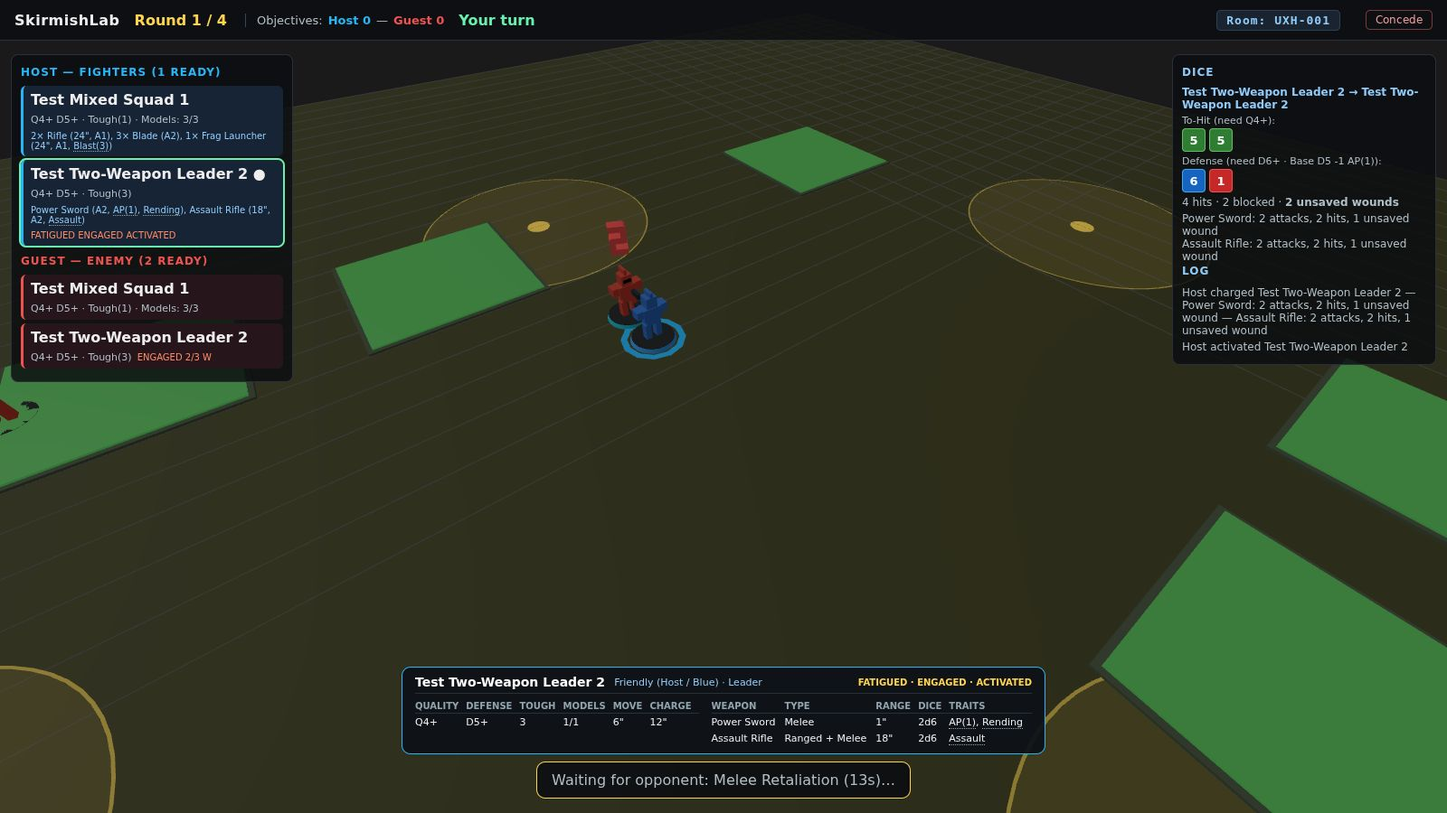
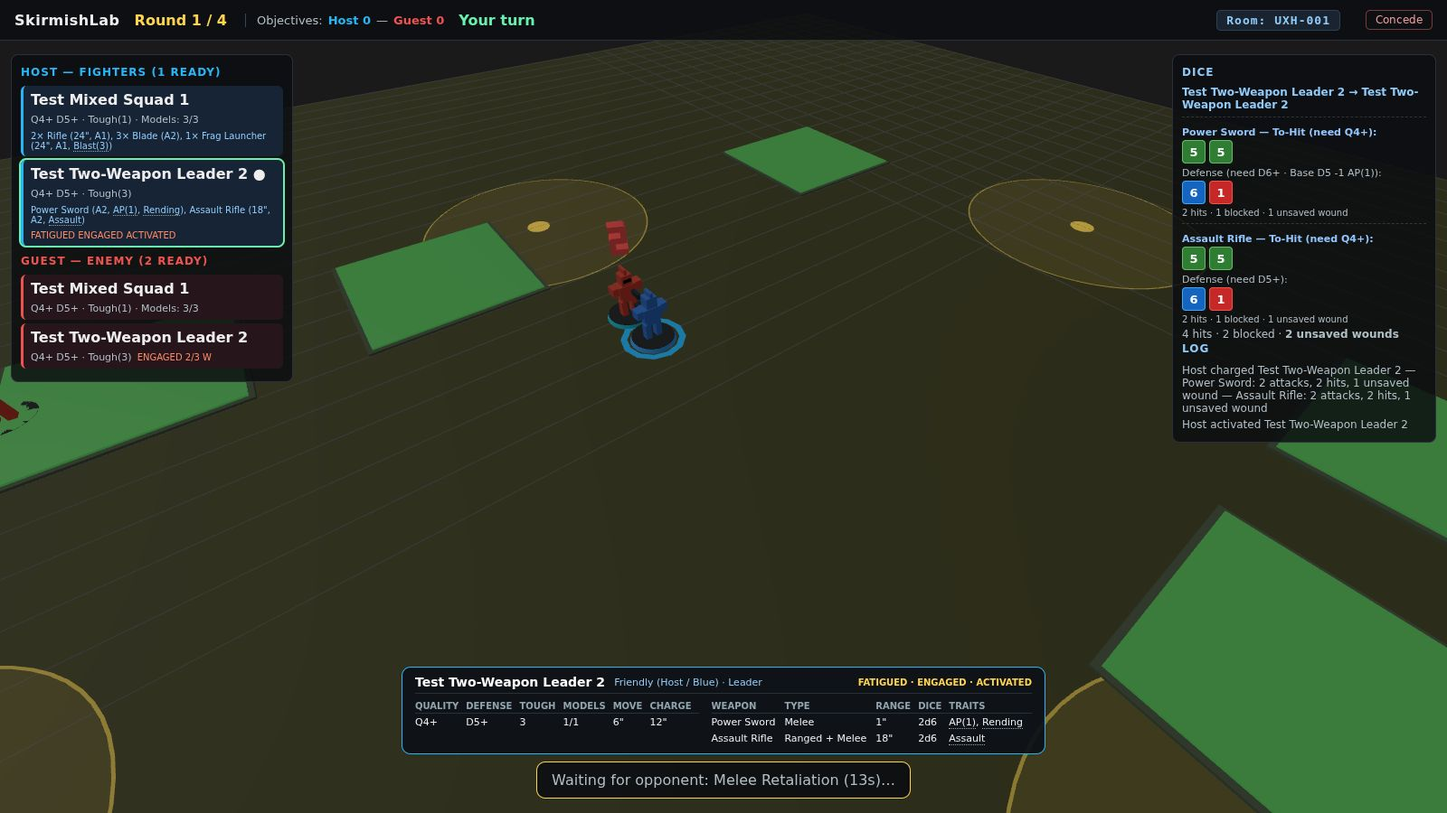
fix: per-weapon To-Hit and Defense dice blocks for multi-weapon melee; retake l13 shots

Changed region(s): [[0.8125, 0.1244, 1.0, 0.56]]

diff --git a/client/src/ui/GameHUD.ts b/client/src/ui/GameHUD.ts
@@ -44,6 +44,9 @@ import {
   woundsToDestroy,
   getEffectiveSpeed,
   findMeleeWeapon,
+  DiceResult,
+  WeaponAttackOutcome,
+  meleeWeaponSlots,
   strikingModelCount,
   isMeleeWeapon,
   isPathDifficult,
@@ -4504,21 +4507,29 @@ export class GameHUD {
           ? `Defender Retaliation: ${attacker?.name ?? 'Defender'} → ${target?.name ?? 'Charger'}`
           : `${attacker?.name ?? 'Attacker'} → ${target?.name ?? 'target'}`;
 
-      return `
-        <div class="sl-hud-dice">
-          <div class="sl-hud-dice-title">${titleText}</div>
-          <div class="sl-hud-dice-label">To-Hit (need Q${effectiveQ}+${toHitMods}):</div>
+      // Several melee weapons struck: each has its own dice batch (`w<slot>-` purposes), target numbers and AP
+      const meleeBlocks = outcome.meleeStrikes && outcome.meleeStrikes.length > 1 && attacker
+        ? this.meleeWeaponBlocksHtml(entry.dice.results, outcome.meleeStrikes, attacker)
+        : '';
+      const rollsHtml = meleeBlocks
+        ? meleeBlocks
+        : `<div class="sl-hud-dice-label">To-Hit (need Q${effectiveQ}+${toHitMods}):</div>
           <div class="sl-hud-dice-row">${hitDiceHtml}</div>
           ${this.blastSplitHtml(outcome.blastSplits)}
           <div class="sl-hud-dice-label">${outcome.blastSplash?.length ? `${target?.name ?? 'Target'} ` : ''}Defense (need D${targetD}+${defMods}):</div>
-          <div class="sl-hud-dice-row">${defDiceHtml}</div>
+          <div class="sl-hud-dice-row">${defDiceHtml}</div>`;
+
+      return `
+        <div class="sl-hud-dice">
+          <div class="sl-hud-dice-title">${titleText}</div>
+          ${rollsHtml}
           <div class="sl-hud-dice-summary">
             ${outcome.hitCount} hit${outcome.hitCount === 1 ? '' : 's'} ·
             ${outcome.blockedCount} blocked ·
             ${summaryWounds}
           </div>
           ${this.blastSplashHtml(outcome.blastSplash)}
-          ${this.specialStrikesHtml(outcome)}
+          ${this.specialStrikesHtml(outcome, !!meleeBlocks)}
           ${retaliationHtml}
           ${pushBackHtml}
         </div>`;
@@ -4527,13 +4538,63 @@ export class GameHUD {
   }
 
   /** Impact hits, the Counter strike and Shred's extra wounds of an attack, as short notes under the dice. */
-  private specialStrikesHtml(outcome: NonNullable<GameState['actionLog'][number]['dice']>['outcome']): string {
-    const lines = this.specialStrikeLines(outcome);
+  /**
+   * To-Hit and Defense dice of a melee with several weapons, one block per weapon that struck. A weapon's dice use
+   * its fixed slot in the unit's melee weapon list: slot 0 is plain `to-hit` / `defense`, later slots `w1-`, `w2-`.
+   */
+  private meleeWeaponBlocksHtml(
+    results: DiceResult[],
+    strikes: WeaponAttackOutcome[],
+    striker: Unit
+  ): string {
+    const slots = meleeWeaponSlots(striker);
+    return strikes
+      .map((m) => {
+        const slot = Math.max(0, slots.findIndex((w) => w.id === m.weaponId));
+        const prefix = slot === 0 ? '' : `w${slot}-`;
+        const toHit = results.find((r) => r.purpose === `${prefix}to-hit`);
+        const defense = results.find((r) => r.purpose === `${prefix}defense`);
+        const q = m.effectiveQuality ?? striker.quality;
+        const d = m.effectiveDefense ?? 5;
+        const hitDice = (toHit?.rolls ?? [])
+          .map((r) => `<span class="sl-die ${r > 1 && (r >= 6 || r >= q) ? 'hit-pass' : 'hit-miss'}">${r}</span>`)
+          .join('');
+        const defRolls = (defense?.rolls ?? []).slice(0, m.hitCount);
+        const defDice = defRolls.length
+          ? defRolls
+              .map((r, i) => {
+                const blocked = m.blockedRolls ? (m.blockedRolls[i] ?? false) : r > 1 && r >= d;
+                return `<span class="sl-die ${blocked ? 'def-pass' : 'def-fail'}">${r}</span>`;
+              })
+              .join('')
+          : '<span class="sl-hud-dice-empty">no hits to defend</span>';
+        const hitMods = m.hitModifiers?.length ? ` · Base Q${m.baseQuality ?? striker.quality} ${m.hitModifiers.join(' ')}` : '';
+        const defMods = m.defenseModifiers?.length ? ` · Base D${m.baseDefense ?? 5} ${m.defenseModifiers.join(' ')}` : '';
+        return `
+          <div class="sl-hud-melee-weapon-block" style="margin-top: 6px; padding-top: 6px; border-top: 1px dashed rgba(255,255,255,0.15);">
+            <div class="sl-hud-dice-label" style="color: #93c5fd; font-weight: bold;">${m.weaponName ?? m.weaponId} — To-Hit (need Q${q}+${hitMods}):</div>
+            <div class="sl-hud-dice-row">${hitDice}</div>
+            <div class="sl-hud-dice-label">Defense (need D${d}+${defMods}):</div>
+            <div class="sl-hud-dice-row">${defDice}</div>
+            <div class="sl-hud-dice-summary" style="font-size: 10px;">${m.hitCount} hit${m.hitCount === 1 ? '' : 's'} · ${m.blockedCount} blocked · ${m.wounds} unsaved wound${m.wounds === 1 ? '' : 's'}</div>
+          </div>`;
+      })
+      .join('');
+  }
+
+  private specialStrikesHtml(
+    outcome: NonNullable<GameState['actionLog'][number]['dice']>['outcome'],
+    skipMeleeLines = false
+  ): string {
+    const lines = this.specialStrikeLines(outcome, skipMeleeLines);
     if (lines.length === 0) return '';
     return `<div class="sl-hud-dice-summary">${lines.map((l) => `<div>${l}</div>`).join('')}</div>`;
   }
 
-  private specialStrikeLines(outcome: NonNullable<GameState['actionLog'][number]['dice']>['outcome']): string[] {
+  private specialStrikeLines(
+    outcome: NonNullable<GameState['actionLog'][number]['dice']>['outcome'],
+    skipMeleeLines = false
+  ): string[] {
     const lines: string[] = [];
     const wounds = (n: number) => `${n} unsaved wound${n === 1 ? '' : 's'}`;
     if (outcome.impact) {
@@ -4543,7 +4604,7 @@ export class GameHUD {
     for (const c of outcome.counterStrikes ?? []) {
       lines.push(`Counter strike first${c.weaponName ? ` (${c.weaponName})` : ''}: ${this.unitName(c.attackerId)} → ${this.unitName(c.targetId)}: ${c.hitCount} hit${c.hitCount === 1 ? '' : 's'}, ${c.blockedCount} blocked, ${wounds(c.wounds)}${c.targetDestroyed ? ' · charger down' : ''}`);
     }
-    const strikes = outcome.meleeStrikes ?? [];
+    const strikes = skipMeleeLines ? [] : outcome.meleeStrikes ?? [];
     for (const m of strikes) {
       lines.push(`${m.weaponName ?? m.weaponId}: ${m.attackCount} attack${m.attackCount === 1 ? '' : 's'}, ${m.hitCount} hit${m.hitCount === 1 ? '' : 's'}, ${wounds(m.wounds)}`);
     }

diff --git a/client/tests/ui/GameHUD.loadouts.test.ts b/client/tests/ui/GameHUD.loadouts.test.ts
@@ -210,7 +210,7 @@ describe('GameHUD per-model loadouts (14C-3 PR 1C)', () => {
   });
 
   describe('dice panel and log', () => {
-    it('shows one line per melee weapon with attacks, hits and wounds, and keeps the totals', () => {
+    it('shows a dice block per melee weapon (log: one line each with attacks, hits, wounds) and keeps the totals', () => {
       const mine = armyUnits(HOST, P(0, 0), P(0, 5));
       const foe = armyUnits(GUEST, P(0, 6.5), P(30, 20));
       mine.leader.status = ['engaged'];
@@ -230,7 +230,7 @@ describe('GameHUD per-model loadouts (14C-3 PR 1C)', () => {
       const { container } = setup(HOST, out.state!);
       const panel = container.querySelector('.sl-hud-dice')!.textContent!;
       for (const s of strikes) {
-        expect(panel).toContain(`${s.weaponName}: ${s.attackCount} attacks, ${s.hitCount} hit`);
+        expect(panel).toContain(`${s.weaponName} — To-Hit`);
       }
       const total = out.logEntry!.dice!.outcome;
       expect(panel).toContain(`${total.hitCount} hit`); // totals still shown
@@ -238,6 +238,70 @@ describe('GameHUD per-model loadouts (14C-3 PR 1C)', () => {
       const log = container.querySelector('.sl-hud-log-entry')!.textContent!;
       expect(log).toContain('Power Sword: 2 attacks');
       expect(log).toContain('Assault Rifle: 2 attacks');
+    });
+  });
+
+  describe('multi-weapon melee dice rows', () => {
+    it('renders To-Hit and Defense dice per weapon, each with its own target numbers and AP', () => {
+      const mine = armyUnits(HOST, P(0, 0), P(0, 5));
+      const foe = armyUnits(GUEST, P(0, 6.5), P(30, 20));
+      mine.leader.status = ['engaged'];
+      foe.squad.status = ['engaged'];
+      const state = baseState([mine.squad, mine.leader, foe.squad, foe.leader], mine.leader.id);
+      const fight = createAction(HOST, 'fight', {
+        type: 'fight',
+        attackerId: mine.leader.id,
+        targetId: foe.squad.id,
+        weaponId: 'power-sword',
+      } as any);
+      const specs = getDiceSpecs(state, fight)!;
+      // Power Sword: both hit; Assault Rifle: dice show 6 then 2 (one hit, one miss)
+      const results = specs.map((spec) => {
+        const rolls =
+          spec.purpose === 'w1-to-hit' ? [6, 2].slice(0, spec.count) : Array(spec.count).fill(spec.purpose.endsWith('to-hit') ? 6 : 1);
+        const total = rolls.reduce((a: number, b: number) => a + b, 0);
+        return { rolls, total, finalTotal: total, purpose: spec.purpose };
+      });
+      const out = applyAction(state, fight, results);
+      expect(out.ok).toBe(true);
+      const { container } = setup(HOST, out.state!);
+      const panel = container.querySelector('.sl-hud-dice')!;
+      const blocks = Array.from(panel.querySelectorAll('.sl-hud-melee-weapon-block'));
+      expect(blocks).toHaveLength(2);
+      const [sword, rifle] = blocks as HTMLElement[];
+      expect(sword.textContent).toContain('Power Sword');
+      expect(sword.textContent).toContain('Defense (need D6+');
+      expect(sword.textContent).toContain('AP(1)');
+      expect(sword.querySelectorAll('.sl-die.hit-pass')).toHaveLength(2);
+      expect(rifle.textContent).toContain('Assault Rifle');
+      expect(rifle.textContent).not.toContain('AP(1)');
+      expect(rifle.textContent).toContain('Defense (need D5+');
+      expect(rifle.querySelectorAll('.sl-die.hit-pass')).toHaveLength(1);
+      expect(rifle.querySelectorAll('.sl-die.hit-miss')).toHaveLength(1);
+      // Defense dice are only the rolls for that weapon's hits
+      expect(rifle.querySelectorAll('.sl-die.def-pass, .sl-die.def-fail')).toHaveLength(1);
+      // totals still shown, and the per-weapon text lines are not repeated in the panel
+      expect(panel.textContent).toContain('3 hits');
+    });
+
+    it('a single-weapon strike keeps the single To-Hit / Defense rows', () => {
+      const mine = armyUnits(HOST, P(0, 0), P(0, 5));
+      const foe = armyUnits(GUEST, P(0, 6.5), P(30, 20));
+      mine.squad.status = ['engaged'];
+      foe.squad.status = ['engaged'];
+      mine.squad.models = [mine.squad.models[0]];
+      mine.squad.position = P(0, 5);
+      mine.squad.models[0].position = P(0, 5);
+      mine.squad.models[0].weaponIds = ['rifle', 'blade'];
+      const state = baseState([mine.squad, mine.leader, foe.squad, foe.leader], mine.squad.id);
+      mine.leader.position = P(-20, -20);
+      mine.leader.models[0].position = P(-20, -20);
+      const fight = createAction(HOST, 'fight', { type: 'fight', attackerId: mine.squad.id, targetId: foe.squad.id, weaponId: 'blade' } as any);
+      const out = applyAction(state, fight, diceFor(getDiceSpecs(state, fight)!, 6));
+      expect(out.ok).toBe(true);
+      const { container } = setup(HOST, out.state!);
+      expect(container.querySelector('.sl-hud-melee-weapon-block')).toBeNull();
+      expect(container.querySelector('.sl-hud-dice')!.textContent).toContain('To-Hit (need Q4+');
     });
   });
 

diff --git a/tools/ux-inventory/catalog.js b/tools/ux-inventory/catalog.js
@@ -131,11 +131,11 @@ module.exports = [
         purpose: 'The charged unit chooses whether to strike back (with every melee weapon it has, listed in the prompt and on the button).' },
       { img: 'l13-03-leader-charge-confirm', title: 'Charge confirm, two melee weapons', what: '"Test Two-Weapon Leader 2 charges … & strikes with Power Sword + Assault Rifle · 4d6 across Power Sword 2 + Assault Rifle 2 (Hit Q4+, Def D5+)". No weapon picker.',
         purpose: 'A model with a melee weapon and an Assault weapon strikes with both; the confirmation lists them.' },
-      { img: 'l13-04-leader-charge-dice', title: 'Melee dice, one line per weapon', what: 'Dice panel with the combined To-Hit and Defense dice, the totals line, then one line per melee weapon ("Power Sword: 2 attacks, 2 hits, 2 unsaved wounds", "Assault Rifle: ..."). The log entry repeats the lines.',
+      { img: 'l13-04-leader-charge-dice', title: 'Melee dice, one line per weapon', what: 'Dice panel with one block per melee weapon: "Power Sword — To-Hit (need Q4+)" with its dice, "Defense (need D6+ · Base D5 -1 AP(1))" with its dice and a hit/blocked/wounds line, then the same for "Assault Rifle" (its own target numbers, no AP), and the totals line. The log entry has one text line per weapon.',
         purpose: 'Shows what each weapon contributed to the melee; totals still add up the weapons.' },
       { img: 'l13-05-strike-back-two-weapons', title: 'Strike back prompt, two weapons', what: 'MELEE RETALIATION prompt naming every weapon: "Strike back with Power Sword + Assault Rifle?" and the button "Strike Back (Power Sword + Assault Rifle)".',
         purpose: 'The charged unit strikes back with all its non-Counter melee weapons.' },
-      { img: 'l13-06-strike-back-dice', title: 'Strike-back dice, one line per weapon', what: 'The strike-back result in the dice panel with a line per weapon.',
+      { img: 'l13-06-strike-back-dice', title: 'Strike-back dice, one line per weapon', what: 'The strike-back result in the dice panel with a To-Hit / Defense block per weapon, each with its own target numbers.',
         purpose: 'Same per-weapon breakdown for the defender\'s strike.' },
       { img: '25-reaction-0-melee-consolidation-host', title: 'Victory consolidation', what: 'Title "VICTORY CONSOLIDATION": the target was wiped out, move up to 3" or Stay Put.',
         purpose: 'The winner of a melee that destroyed the other unit may move 3".' },

diff --git a/doc/ux/inventory/index.html b/doc/ux/inventory/index.html
@@ -717,7 +717,7 @@ dd { margin: 0; color: var(--ink); overflow-wrap: anywhere; }
           <p class="num">51</p>
           <h3>Melee dice, one line per weapon</h3>
           <dl>
-            <dt>What it is</dt><dd>Dice panel with the combined To-Hit and Defense dice, the totals line, then one line per melee weapon (&quot;Power Sword: 2 attacks, 2 hits, 2 unsaved wounds&quot;, &quot;Assault Rifle: ...&quot;). The log entry repeats the lines.</dd>
+            <dt>What it is</dt><dd>Dice panel with one block per melee weapon: &quot;Power Sword — To-Hit (need Q4+)&quot; with its dice, &quot;Defense (need D6+ · Base D5 -1 AP(1))&quot; with its dice and a hit/blocked/wounds line, then the same for &quot;Assault Rifle&quot; (its own target numbers, no AP), and the totals line. The log entry has one text line per weapon.</dd>
             <dt>Purpose</dt><dd>Shows what each weapon contributed to the melee; totals still add up the weapons.</dd>
           </dl>
         </div>
@@ -741,7 +741,7 @@ dd { margin: 0; color: var(--ink); overflow-wrap: anywhere; }
           <p class="num">53</p>
           <h3>Strike-back dice, one line per weapon</h3>
           <dl>
-            <dt>What it is</dt><dd>The strike-back result in the dice panel with a line per weapon.</dd>
+            <dt>What it is</dt><dd>The strike-back result in the dice panel with a To-Hit / Defense block per weapon, each with its own target numbers.</dd>
             <dt>Purpose</dt><dd>Same per-weapon breakdown for the defender's strike.</dd>
           </dl>
         </div>

diff --git a/doc/SYSTEMS.md b/doc/SYSTEMS.md
@@ -150,7 +150,7 @@ interface SpecialRuleDefinition {
 - The engine ships with a core set of generic special rules; rulesets select from them and may define more.
 
 ### Special rules in the engine (14C-2 PR 7)
-`shared/src/engine/specialRules.ts` holds the small helpers the host and the HUD share: `getEffectiveSpeed` (Speed +2" Fast / -2" Slow; Rush and Charge are twice it; every distance check uses it, never `unit.speed`), `isMeleeWeapon` / `findMeleeWeapon` / `hasMeleeWeapon` (a ranged weapon with `assault` also strikes in melee; a true melee weapon is preferred), `findCounterWeapons` (every equipped Counter weapon), `findNonCounterMeleeWeapon` and `impactDiceCount`. **Per-model loadouts and all-weapons melee (14C-3 PR 1B):** `FighterDefinition.modelLoadouts` (weapon ids per model; length must equal `modelCount`) spawns a unit whose `weapons` are the distinct ids and whose models record their own `weaponIds` (absent = carries all, so armies without it behave as before). A weapon's attacks are multiplied by the living models that carry it and qualify: `firingModels` (range and sight per model, carriers only) for shooting, `strikingModelCount(striker, foe, weaponId)` (3" reach) for melee. The host rejects a shoot allocation for a weapon no living model carries. Melee (`fight`, the charge strike, the strike-back, the pile-in strike) strikes with **every** melee weapon (`meleeWeaponSlots`: equipped, Assault included, equipment order) that has a carrier in reach; the payload `weaponId` of `charge` / `fight` is accepted for compatibility but no longer chooses a weapon. Each weapon has a fixed slot in that list and its own dice batch: slot 0 keeps the plain `to-hit` / `defense` / `regeneration` purposes, later slots are prefixed `w1-`, `w2-` (a slot whose carriers are all gone, or out of reach, rolls and resolves nothing and never renumbers the others, which keeps the up-front dice of a casualty pause valid: the resume counts the survivors per weapon). A strike-back numbers its batches in striking order instead (`strikeBackEntries`). Counter weapons keep `counter<i>-` with `i` their place among all the unit's Counter weapons. Impact is the unit's X for each model in reach plus each weapon's own X for each carrier in reach. The dice outcome keeps the totals (sums over every weapon, so the melee result counts all of them) and adds `outcome.meleeStrikes`: one `WeaponAttackOutcome` per weapon that struck, in order; the strike-back prompt's `data.weaponIds` lists the weapons it will use (`data.weaponId` is the first). **Charge order** (`resolveChargeStrike`, staged `impact` -> `counter` -> `strike`): the charger's Impact(X) hits (X dice per striking model, dice `impact`, `impact-defense`, `impact-regeneration`; none while the charger is Fatigued), then the charged unit's Counter strikes (`counterStrikeWeapons`: every Counter weapon with a numeric attack count, none while the unit is Fatigued, Shaken or destroyed; one resolution per weapon with dice `counter<i>-to-hit`, `counter<i>-defense`, `counter<i>-regeneration`, wounds attached as `counterStrikes`), then the charger's own strike if both units still stand. After Counter strikes the defender's strike-back is offered for `findNonCounterMeleeWeapon` only (no prompt without one, so the step back follows); without a Counter strike it is the default melee weapon as before (a Shaken Counter unit can strike back with its Counter weapon, as Fatigued). The charger being wiped out by Counter ends the exchange in the defender's favour (consolidation). **Casualty pauses (14C-2 PR 7B):** the dice are rolled up front for the full strike counts (an upper bound). When Counter wounds remove models from a surviving squad charger, or Impact wounds remove models from a surviving squad that is about to Counter, `deferCasualties` raises the owner's `pick-casualties` with the continuation `charge-resume { stage, attackerId, targetId, weaponId, chargeDistance, dice, counterStruck? }` (plain data; the dice ride in the reaction). Accepting the pick (or the timeout auto pick) calls `resumeChargeStrike`, which runs `resolveChargeStrike` from `stage` over the survivors: attacks are counted from the models in reach after the pick and the unused extra dice are ignored. The resumed part is logged on the pick's own entry (its `dice` carry only that part's outcome: `counterStrikes` or the strike). The final strike keeps the `charge-strike` continuation. **Fear** (`fearValue(unit, foe)` in `activation.ts`): X per living model of the Fear unit within melee reach (`strikingModelCount`, 3") of the enemy it is compared with, at least one, measured when `getMeleeResults` runs. **Shred** (`resolveAttack`): each unmodified Defense roll of 1 adds one plain wound (`CombatOutcome.shredWounds`, applied after the Deadly-multiplied wounds by `applyOutcomeWounds`). The dice are sized by `chargeExtraSpecs`, shared by the charge and the pile-in strike. `DiceResolution.outcome` carries `impact`, `counterStrikes` (`SpecialStrikeOutcome[]`) and `shredWounds` for the dice panel and log. **HUD (14C-3 PR 1C, `client/src/ui/loadout.ts`):** the unit list and data card show each carried weapon with a `N×` prefix (living models carrying it; shown when the unit has more than one living model; a weapon with no living carrier is not listed), the shoot panel offers only carried ranged weapons and each chip counts the firing models with the same `firingModels` the host uses, there is no melee weapon choice (the charge confirmation lists every melee weapon and its attacks; `weaponId` is still sent as the first one), and `specialStrikeLines` prints one dice-panel/log line per `outcome.meleeStrikes` entry.
+`shared/src/engine/specialRules.ts` holds the small helpers the host and the HUD share: `getEffectiveSpeed` (Speed +2" Fast / -2" Slow; Rush and Charge are twice it; every distance check uses it, never `unit.speed`), `isMeleeWeapon` / `findMeleeWeapon` / `hasMeleeWeapon` (a ranged weapon with `assault` also strikes in melee; a true melee weapon is preferred), `findCounterWeapons` (every equipped Counter weapon), `findNonCounterMeleeWeapon` and `impactDiceCount`. **Per-model loadouts and all-weapons melee (14C-3 PR 1B):** `FighterDefinition.modelLoadouts` (weapon ids per model; length must equal `modelCount`) spawns a unit whose `weapons` are the distinct ids and whose models record their own `weaponIds` (absent = carries all, so armies without it behave as before). A weapon's attacks are multiplied by the living models that carry it and qualify: `firingModels` (range and sight per model, carriers only) for shooting, `strikingModelCount(striker, foe, weaponId)` (3" reach) for melee. The host rejects a shoot allocation for a weapon no living model carries. Melee (`fight`, the charge strike, the strike-back, the pile-in strike) strikes with **every** melee weapon (`meleeWeaponSlots`: equipped, Assault included, equipment order) that has a carrier in reach; the payload `weaponId` of `charge` / `fight` is accepted for compatibility but no longer chooses a weapon. Each weapon has a fixed slot in that list and its own dice batch: slot 0 keeps the plain `to-hit` / `defense` / `regeneration` purposes, later slots are prefixed `w1-`, `w2-` (a slot whose carriers are all gone, or out of reach, rolls and resolves nothing and never renumbers the others, which keeps the up-front dice of a casualty pause valid: the resume counts the survivors per weapon). A strike-back numbers its batches in striking order instead (`strikeBackEntries`). Counter weapons keep `counter<i>-` with `i` their place among all the unit's Counter weapons. Impact is the unit's X for each model in reach plus each weapon's own X for each carrier in reach. The dice outcome keeps the totals (sums over every weapon, so the melee result counts all of them) and adds `outcome.meleeStrikes`: one `WeaponAttackOutcome` per weapon that struck, in order; the strike-back prompt's `data.weaponIds` lists the weapons it will use (`data.weaponId` is the first). **Charge order** (`resolveChargeStrike`, staged `impact` -> `counter` -> `strike`): the charger's Impact(X) hits (X dice per striking model, dice `impact`, `impact-defense`, `impact-regeneration`; none while the charger is Fatigued), then the charged unit's Counter strikes (`counterStrikeWeapons`: every Counter weapon with a numeric attack count, none while the unit is Fatigued, Shaken or destroyed; one resolution per weapon with dice `counter<i>-to-hit`, `counter<i>-defense`, `counter<i>-regeneration`, wounds attached as `counterStrikes`), then the charger's own strike if both units still stand. After Counter strikes the defender's strike-back is offered for `findNonCounterMeleeWeapon` only (no prompt without one, so the step back follows); without a Counter strike it is the default melee weapon as before (a Shaken Counter unit can strike back with its Counter weapon, as Fatigued). The charger being wiped out by Counter ends the exchange in the defender's favour (consolidation). **Casualty pauses (14C-2 PR 7B):** the dice are rolled up front for the full strike counts (an upper bound). When Counter wounds remove models from a surviving squad charger, or Impact wounds remove models from a surviving squad that is about to Counter, `deferCasualties` raises the owner's `pick-casualties` with the continuation `charge-resume { stage, attackerId, targetId, weaponId, chargeDistance, dice, counterStruck? }` (plain data; the dice ride in the reaction). Accepting the pick (or the timeout auto pick) calls `resumeChargeStrike`, which runs `resolveChargeStrike` from `stage` over the survivors: attacks are counted from the models in reach after the pick and the unused extra dice are ignored. The resumed part is logged on the pick's own entry (its `dice` carry only that part's outcome: `counterStrikes` or the strike). The final strike keeps the `charge-strike` continuation. **Fear** (`fearValue(unit, foe)` in `activation.ts`): X per living model of the Fear unit within melee reach (`strikingModelCount`, 3") of the enemy it is compared with, at least one, measured when `getMeleeResults` runs. **Shred** (`resolveAttack`): each unmodified Defense roll of 1 adds one plain wound (`CombatOutcome.shredWounds`, applied after the Deadly-multiplied wounds by `applyOutcomeWounds`). The dice are sized by `chargeExtraSpecs`, shared by the charge and the pile-in strike. `DiceResolution.outcome` carries `impact`, `counterStrikes` (`SpecialStrikeOutcome[]`) and `shredWounds` for the dice panel and log. **HUD (14C-3 PR 1C, `client/src/ui/loadout.ts`):** the unit list and data card show each carried weapon with a `N×` prefix (living models carrying it; shown when the unit has more than one living model; a weapon with no living carrier is not listed), the shoot panel offers only carried ranged weapons and each chip counts the firing models with the same `firingModels` the host uses, there is no melee weapon choice (the charge confirmation lists every melee weapon and its attacks; `weaponId` is still sent as the first one), the dice panel renders a To-Hit / Defense block per `outcome.meleeStrikes` entry when several melee weapons struck (each from its own `w<slot>-` dice and its own target numbers and AP), and `specialStrikeLines` prints one log line per entry.
 
 **Activation test casualty pick (Decision 42):** `applyActivationHazard` records the test's wounds in a wound ledger; when a squad survives with fewer models, `deferCasualties` raises the usual `pick-casualties` reaction with the continuation `{ kind: 'activation-hazard', attackerId, finish? }`. On `activate-unit` the activation simply goes on after the pick; on a one-action `hold` the continuation carries the action's dice (`finish.dice`) and `finishActivation` (morale, Shaken cleared, next player) runs after the pick. A destroyed or single-model unit gets no prompt.
 

diff --git a/doc/manual-testing/MANUAL_TEST_CHECKLIST.md b/doc/manual-testing/MANUAL_TEST_CHECKLIST.md
@@ -40,6 +40,6 @@ One living checklist for things automated tests can't prove: feel, visuals, and 
 - [ ] **Hold the Line (14C-3 PR 1).** Setup: same lobby entries and map. Shoot the enemy "Test Guard" (Hold the Line, Q4+, 2 models, 1 wound each) from more than 9" away until one model dies, so it must take a Morale Test: the Morale line in the dice panel reads "(need Q4+, roll +1)" and a roll of 3 passes. Repeat from 9" or less (move closer first): the line shows no "+1" and a 3 fails (Shaken). Charge it from more than 6" away and make it lose the melee: "+1" shows again; from 6" or less it does not.
 - [ ] **Loadouts in the unit panel and shoot panel (14C-3 PR 1C).** Setup: press F9 in the lobby (developer mode), both players pick "TEST: Loadouts Check", map Standard Battlefield. Deploy everything. In the unit list, "Test Mixed Squad" shows "2× Rifle", "3× Blade" and "1× Frag Launcher"; "Test Two-Weapon Leader" shows "Power Sword" and "Assault Rifle" with no count. Activate the squad and press Shoot: two weapon chips appear ("2× Rifle (24")", "1× Frag Launcher (24")"). Click an enemy in range: each chip says how many models fire ("2 fire" / "1 fire"), and the confirmation reads "2× Rifle & 1× Frag Launcher". Move one Rifle model out of range (keep the squad coherent) and aim again: the Rifle chip drops to "1 fire".
 - [ ] **Blast only on the launcher's hits; killing the launcher removes it (14C-3 PR 1C).** Setup: same lobby entries and map. Shoot the enemy "Test Mixed Squad" with yours: the dice panel shows one salvo line per weapon; Blast multiplies only the Frag Launcher's hits, not the Rifle's. Kill the enemy squad's launcher model (pick it when asked which models go): the enemy's unit panel loses "Frag Launcher" and the "Shoot" chips of that unit no longer offer it; the Rifle count falls by one for each Rifle model you remove.
-- [ ] **A Leader-style model strikes with both weapons (14C-3 PR 1C).** Setup: same lobby entries and map. Charge the enemy with "Test Two-Weapon Leader": there is no weapon choice anywhere; the confirmation says it "strikes with Power Sword + Assault Rifle" with the attacks for each. After Confirm, the dice panel and the log each show one line per weapon ("Power Sword: 2 attacks, N hits, N unsaved wounds", then "Assault Rifle: ..."), and the total hits/blocked/wounds line still appears.
-- [ ] **Strike-back lists every weapon (14C-3 PR 1C).** Setup: same lobby entries and map. Charge the enemy "Test Two-Weapon Leader" with any unit and let it survive: the enemy's Melee Retaliation prompt reads "Strike back with Power Sword + Assault Rifle?" and the button says "Strike Back (Power Sword + Assault Rifle)". Accept: the dice panel shows a line for each weapon.
+- [ ] **A Leader-style model strikes with both weapons (14C-3 PR 1C).** Setup: same lobby entries and map. Charge the enemy with "Test Two-Weapon Leader": there is no weapon choice anywhere; the confirmation says it "strikes with Power Sword + Assault Rifle" with the attacks for each. After Confirm, the dice panel shows a block per weapon ("Power Sword — To-Hit (need Q4+)" with its dice, then its own Defense row with that weapon's AP, then the same for "Assault Rifle" with no AP), and the total hits/blocked/wounds line still appears; the log has one line per weapon ("Power Sword: 2 attacks, N hits, N unsaved wounds", ...).
+- [ ] **Strike-back lists every weapon (14C-3 PR 1C).** Setup: same lobby entries and map. Charge the enemy "Test Two-Weapon Leader" with any unit and let it survive: the enemy's Melee Retaliation prompt reads "Strike back with Power Sword + Assault Rifle?" and the button says "Strike Back (Power Sword + Assault Rifle)". Accept: the dice panel shows a To-Hit and Defense block for each weapon.
 - [ ] **Human Defense Force list** is not in the pickers yet (blocked, see the PR 1 report); add its checks here when it lands.
